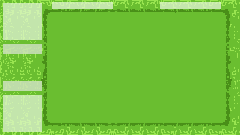
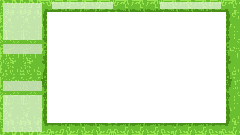
Added HUD

diff --git a/Thunderstruck/Assets/Scripts/MainScript.cs b/Thunderstruck/Assets/Scripts/MainScript.cs
@@ -18,6 +18,8 @@ public class MainScript : MonoBehaviour
     public static float placementHeightBuffer;
     public static Room currentRoom;
     public static GameObject mainCamera;
+    public static List<GameObject> HUDObjects;
+    public static GameObject HUD;
     public static float currentRoomX;
 
     public static float currentRoomY;
@@ -31,10 +33,16 @@ public class MainScript : MonoBehaviour
         Vector3 mapRend = mapPic.GetComponent<Renderer>().bounds.size;
         mapWidth = mapRend.x;
         mapHeight = mapRend.y;
-        mapBorderWidth = (float)1.54;
-        mapBorderHeight = (float)1.5;
-        placementWidthBuffer = 3;
-        placementHeightBuffer = 3;
+        //mapBorderWidth = (float)1.54;
+        //mapBorderHeight = (float)1.5;
+        mapBorderWidth = (float)0;
+        mapBorderHeight = (float)0;
+        placementWidthBuffer = 6;
+        placementHeightBuffer = 6;
+
+        HUDObjects = new List<GameObject>();
+        var hud = GameObject.Find("HUD");
+        HUDObjects.Add(hud);
 
         var assetDoor = AssetDatabase.LoadAssetAtPath<GameObject>("Assets/Sprites/door.prefab");
 
@@ -74,7 +82,7 @@ public class MainScript : MonoBehaviour
              GameObject newBox = Instantiate(assetRoom);
            // GameObject newBox = Instantiate(mapPic);
             newBox.name = "madeBox";
-            float placementX = x * (mapWidth + placementWidthBuffer);
+            float placementX = x * (mapWidth + placementWidthBuffer );
             float placementY = y * (mapHeight + placementHeightBuffer);
             float placementZ = mapRend.z;
 
@@ -93,23 +101,23 @@ public class MainScript : MonoBehaviour
                     {
 
                         case 0:
-                            newDoor.transform.position = new Vector3(placementX + mapWidth / 2 - (MainScript.mapBorderWidth / 2 - doorRend.x / 4),
+                            newDoor.transform.position = new Vector3(placementX + mapWidth / 2 - (MainScript.mapBorderWidth / 2 - doorRend.x / 2),
                                                                   placementY,
                                                                   placementZ);
                             break;
                         case 1:
                             newDoor.transform.position = new Vector3(placementX,
-                                                              placementY + mapHeight / 2 - (MainScript.mapBorderHeight / 2 - doorRend.y / 4),
+                                                              placementY + mapHeight / 2 - (MainScript.mapBorderHeight / 2 - doorRend.y / 2),
                                                               placementZ);
                             break;
                         case 2:
-                            newDoor.transform.position = new Vector3(placementX - mapWidth / 2 + (MainScript.mapBorderWidth / 2 - doorRend.x / 4),
+                            newDoor.transform.position = new Vector3(placementX - mapWidth / 2 + (MainScript.mapBorderWidth / 2 - doorRend.x / 2),
                                                               placementY,
                                                               placementZ);
                             break;
                         case 3:
                             newDoor.transform.position = new Vector3(placementX,
-                                                              placementY - mapHeight / 2 + (MainScript.mapBorderHeight / 2 - doorRend.y / 4),
+                                                              placementY - mapHeight / 2 + (MainScript.mapBorderHeight / 2 - doorRend.y / 2),
                                                               placementZ);
                             break;
                         default:
@@ -208,9 +216,17 @@ public class MainScript : MonoBehaviour
         MainScript.currentRoomY = placementY;
 
         mainCamera.transform.position = new Vector3(
-            placementX,
+            placementX - (float)1.22,
             placementY,
             mainCamera.transform.position.z);
+
+        foreach (var huditem in HUDObjects)
+        {
+            huditem.transform.position = new Vector3(
+            placementX - (float)1.22,
+            placementY,
+            huditem.transform.position.z);
+        }
 
 
         var player = GameObject.FindWithTag("Player");

diff --git a/Thunderstruck/Assets/Scripts/BaseSprite.cs b/Thunderstruck/Assets/Scripts/BaseSprite.cs
@@ -5,10 +5,12 @@ using UnityEngine;
 public class BaseSprite : MonoBehaviour {
     static float xBound;
     static float yBound;
+    private Vector3 spriteSize;
+
   
 	// Use this for initialization
 	public void BaseStart () {
-      
+        spriteSize = GetComponent<Renderer>().bounds.size;
 
     }
 	public static void SetBounds(float xBound, float yBound)
@@ -21,23 +23,39 @@ public class BaseSprite : MonoBehaviour {
 	public void BaseUpdate() {
 
         
-        if (transform.position.x <= MainScript.currentRoomX + -1 * xBound)
+        if (transform.position.x - (spriteSize.x/2) <= MainScript.currentRoomX + -1 * xBound)
         {
-            transform.position = new Vector2(MainScript.currentRoomX + (-1 * xBound), transform.position.y);
+            transform.position = new Vector3(
+                MainScript.currentRoomX + (-1 * xBound) + (spriteSize.x / 2),
+                transform.position.y,
+                transform.position.z
+                );
         }
-        else if (transform.position.x >= MainScript.currentRoomX + (xBound))
+        else if (transform.position.x + (spriteSize.x / 2) >= MainScript.currentRoomX + (xBound))
         {
-            transform.position = new Vector2(MainScript.currentRoomX + (xBound), transform.position.y);
+            transform.position = new Vector3(
+                MainScript.currentRoomX + (xBound) - (spriteSize.x / 2),
+                transform.position.y,
+                transform.position.z
+                );
         }
 
         // Y axis
-        if (transform.position.y <= MainScript.currentRoomY + (-1 * yBound))
+        if (transform.position.y - (spriteSize.y / 2) <= MainScript.currentRoomY + (-1 * yBound))
         {
-            transform.position = new Vector2(transform.position.x, MainScript.currentRoomY + (-1 * yBound));
+            transform.position = new Vector3(
+                transform.position.x, 
+                MainScript.currentRoomY + (-1 * yBound) + (spriteSize.y / 2),
+                transform.position.z
+                );
         }
-        else if (transform.position.y >= MainScript.currentRoomY + ((float)yBound))
+        else if (transform.position.y + (spriteSize.y / 2) >= MainScript.currentRoomY + ((float)yBound))
         {
-            transform.position = new Vector2(transform.position.x, MainScript.currentRoomY + ((float)yBound));
+            transform.position = new Vector3(
+                transform.position.x, 
+                MainScript.currentRoomY + ((float)yBound) - (spriteSize.y / 2),
+                transform.position.z
+                );
         }
     }
 }
